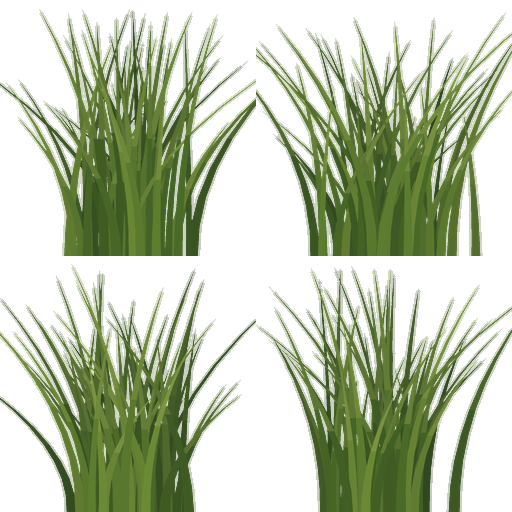
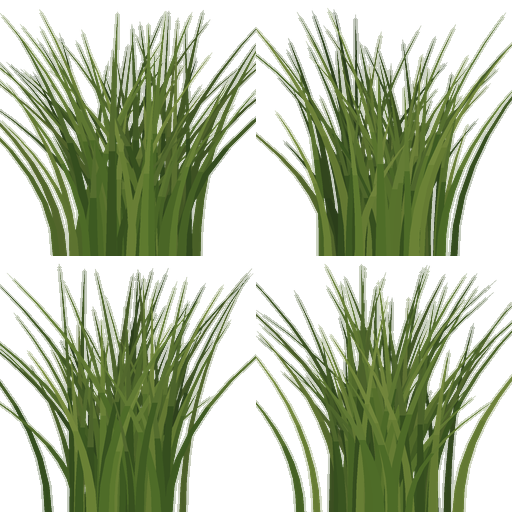
WIP v0.8.0 AS3: Bodengras dichter und dunkler
Das Bodengras (props/cover_grass) las sich aus 15 m als ein hellgrüner Fleck.
Jetzt 14 Büschel mit 110 Halmen, dunklere Halme mit mehr Kontrast
(veg3d.GRASS, Katalogeintrag im AS3-Block). 84/28 Dreiecke.

Claude-Session: https://claude.ai/code/session_01PFUioZ3CbJFXvrcqAMyLYq

diff --git a/tools/blender/ce3d/veg3d.py b/tools/blender/ce3d/veg3d.py
@@ -144,7 +144,9 @@ BUSHES = {
                     atlas_seed=47, levels=(((1, 6), (1, 5, 10)), ((1, 3), (1, 5))), tris=(396, 118), sway=0.25,
                     core_subdiv=(-1, -1), lift=(1.0, 1.1)),
 }
-GRASS = dict(colors=("#4a6a27", "#5d7d2f", "#6d8a36", "#425f24"), shade="#20301a", tip="#97a656", n_blades=70)
+# AS3: darker blades with more contrast and more of them - at 15 m the tufts of wave 2 read as one light-green spot
+GRASS = dict(colors=("#3f5c22", "#4f6d28", "#5e7a2f", "#38521f", "#6b8236"), shade="#1a2614", tip="#86964a",
+             n_blades=110)
 
 OPAQUE = 0.82            # part of a card (from its centre) that counts as silhouette
 IMPOSTOR_PX = 256

diff --git a/tools/blender/ce3d/catalog3d.py b/tools/blender/ce3d/catalog3d.py
@@ -231,6 +231,8 @@ MODELS.update({
     "props/cliff": dict(builder="rock", source="props/cliff", kind="rock", atlas=(1024, 1024), ppm_max=40.0,
                         roughness=0.92, tris=5900, ao=dict(distance=2.5, floor=0.4, gamma=1.0, samples=24)),
 })
+# ground cover grass (AS1b): twice the tufts, so that it reads as grass and not as one spot at 15 m
+MODELS["props/cover_grass"] = dict(MODELS["props/cover_grass"], grass=dict(seed=23, tufts=14))
 # --- end AS3 -----------------------------------------------------------------------------------------------------------
 
 
